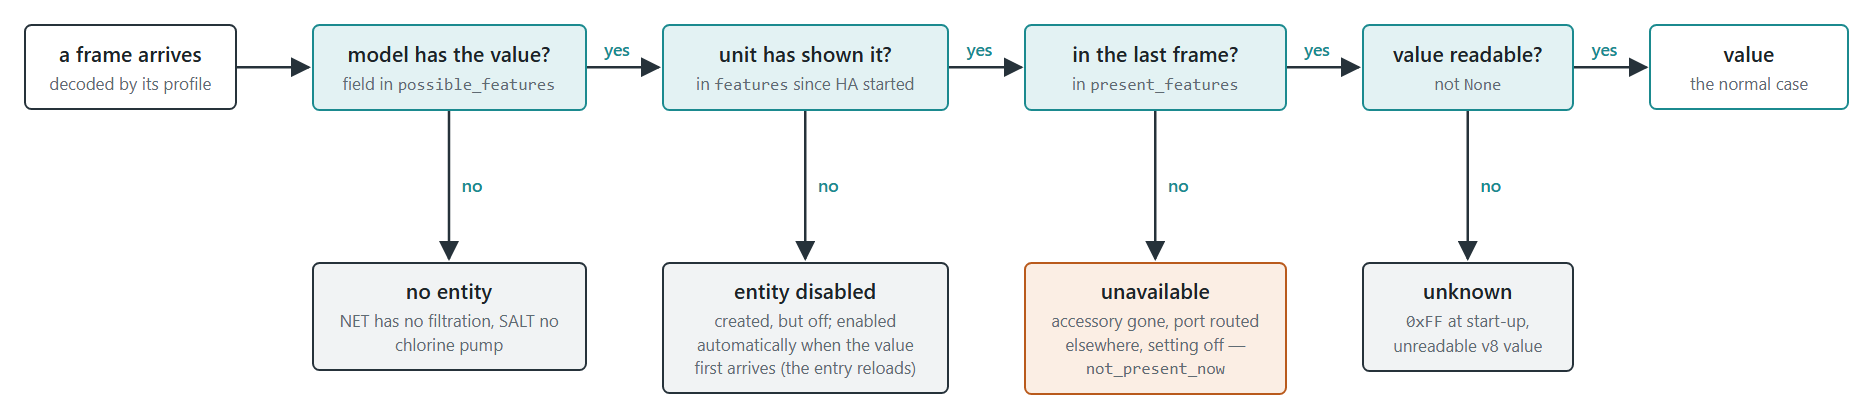
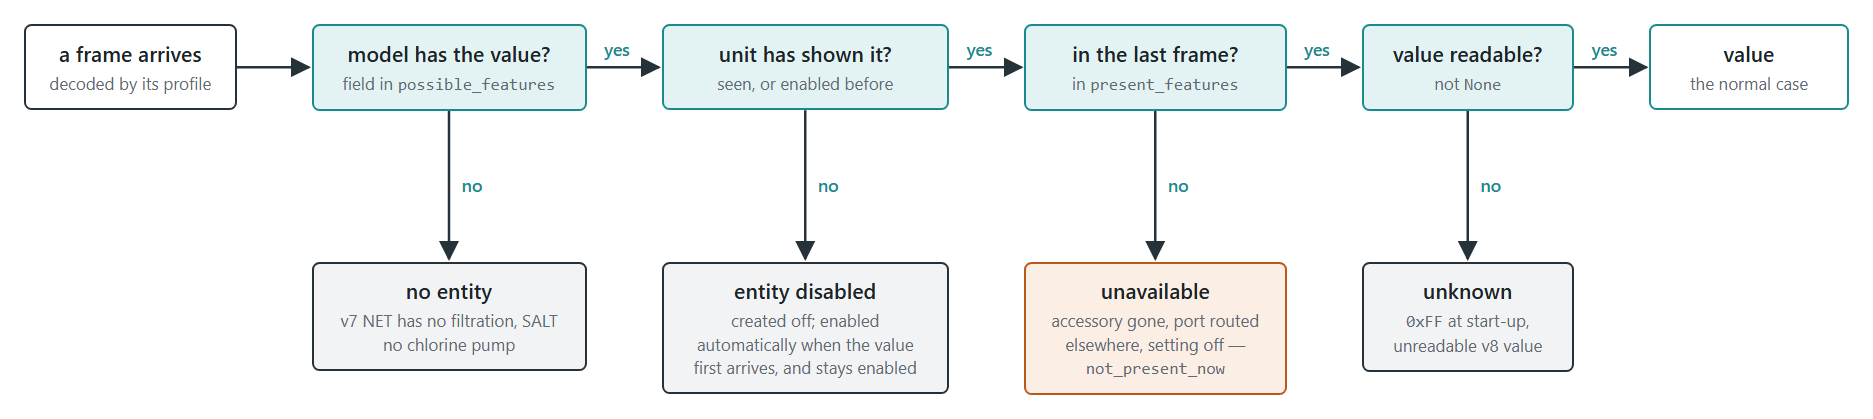
docs: audit section 6 -- accurate comments, sentinels per field, marks, v8 recipe, security note
- HOME pump bit and byte[103] comments follow the profile
- frame log and photo module intros describe recording, waiting and the zip
- architecture: what decoding takes from HA, sentinels decided per field,
  v8 -500 vs unreadable, short v8 frames, which frame ends a wait, timeout
  and cancellation of marks
- adding a model: every registration step for v8, test and diagram commands
- lifecycle diagram: v7 NET, entities stay enabled; troubleshooting and
  README: cancelled marks, security note on the TCP port and exports

diff --git a/docs/images/src/aseko-entity-lifecycle.html b/docs/images/src/aseko-entity-lifecycle.html
@@ -38,16 +38,16 @@
   </div>
   <div id="none" class="box end" style="left:250px; top:230px; width:220px;">
     <h3>no entity</h3>
-    <div class="muted">NET has no filtration, SALT no chlorine pump</div>
+    <div class="muted">v7 NET has no filtration, SALT no chlorine pump</div>
   </div>
 
   <div id="q2" class="box q" style="left:530px; top:40px; width:230px;">
     <h3>unit has shown it?</h3>
-    <div class="muted">in <code>features</code> since HA started</div>
+    <div class="muted">seen, or enabled before</div>
   </div>
   <div id="disabled" class="box end" style="left:530px; top:230px; width:230px;">
     <h3>entity disabled</h3>
-    <div class="muted">created, but off; enabled automatically when the value first arrives (the entry reloads)</div>
+    <div class="muted">created off; enabled automatically when the value first arrives, and stays enabled</div>
   </div>
 
   <div id="q3" class="box q" style="left:820px; top:40px; width:210px;">

diff --git a/custom_components/aseko_local/recording/frame_log.py b/custom_components/aseko_local/recording/frame_log.py
@@ -1,11 +1,12 @@
 """A ring buffer of raw frames and user markers, capped in compressed bytes.
 
-Every frame the server receives (v7 binary, v8 text, partial) is appended as
-one JSON line with the Home Assistant receive time.  A marker written by the
-``mark_dump`` service goes into the same stream, so frames and the photos a
-user takes of the unit's display right after tapping the button line up by
-position, without anyone comparing clocks.  Photos stay outside, attached to
-the GitHub issue by hand.
+While recording is on (the test cases card turns it on), every frame the
+server receives (v7 binary, v8 text, partial, rejected) is appended as one
+JSON line with the Home Assistant receive time.  A marker from ``mark_dump``
+or the card goes into the same stream once the next decoded frame arrives,
+so a change on the unit and the frames that carry it line up by position,
+without anyone comparing clocks.  A display photo is kept by ``photos`` and
+named in its marker; the zip export packs both.
 
 The ceiling is hard: the sealed compressed chunks, plus the compressed bytes
 of the chunk being written, plus the records not yet handed to its

diff --git a/custom_components/aseko_local/decoding/features/algaecide_pump_running.py b/custom_components/aseko_local/decoding/features/algaecide_pump_running.py
@@ -1,8 +1,10 @@
 """Whether the algicide dosing pump is running.
 
 v7: byte[29] bit 0x20 on SALT (confirmed: 27 algicide frames read 0x28 =
-0x08 | 0x20, PR #87) and HOME (uncertain), bit 0x10 on OXY (confirmed:
-2026-04-11 Winnetoux log, 0x08 -> 0x18 with the pump on).
+0x08 | 0x20, PR #87), bit 0x10 on OXY (confirmed: 2026-04-11 Winnetoux log,
+0x08 -> 0x18 with the pump on).  HOME has the same four independent pump
+ports as OXY and reads 0x10 too (``decode_v7_oxy``, assumed); its algicide
+flow rate is not located, so no HOME algicide state is reported yet.
 
 On SALT the same bit also means flocculant: one physical port, configured for
 either chemical.  Whether the port is set up for algicide at all is settled
@@ -24,8 +26,8 @@ if TYPE_CHECKING:
     from ..presence import NotPresent
 
 
-ALGICIDE_PUMP = 0x20  # SALT confirmed (PR #87), HOME uncertain
-ALGICIDE_PUMP_OXY = 0x10  # confirmed, 2026-04-11
+ALGICIDE_PUMP = 0x20  # SALT confirmed (PR #87)
+ALGICIDE_PUMP_OXY = 0x10  # OXY confirmed 2026-04-11; HOME assumed
 
 
 class AlgaecidePumpRunning(Feature):

diff --git a/custom_components/aseko_local/recording/photos.py b/custom_components/aseko_local/recording/photos.py
@@ -1,10 +1,11 @@
 """Photos of the unit's display that go with frame-log markers, and the zip export.
 
 The Aseko test cases card uploads a photo straight from the phone's camera.  The
-upload writes a marker into the frame log at the moment it arrives and keeps
-the photo here, named after that moment, so photo and frames line up without
-EXIF data, file names or anyone comparing clocks.  Messengers strip all of
-those; this path never leaves Home Assistant.
+photo is kept here at once, named after the upload time; its marker is written
+into the frame log after the next decoded frame and names the photo, so photo
+and frames line up without EXIF data, file names or anyone comparing clocks.
+Messengers strip all of those; this path never leaves Home Assistant.  A mark
+cancelled while it waited (recording stopped or deleted) removes its photo.
 
 Photos are downscaled (longest side ``MAX_SIDE`` px, JPEG) when Pillow can
 read them, and the folder is capped in bytes and count: the oldest photos go

diff --git a/custom_components/aseko_local/decoding/features/water_level.py b/custom_components/aseko_local/decoding/features/water_level.py
@@ -11,8 +11,10 @@ byte positions (domin211, DomSchCoding #100, Issue #110):
     byte[105] = high alarm threshold (cm)
 
 NET carries unrelated non-0xFF data in bytes 102-104, so no NET profile
-lists these.  byte[103] doubles as algaecide_flow_rate on OXY and HOME, whose
-independent-port layout reads it for both; SALT ignores it there.
+lists these.  OXY has no level probe and sends its algicide flow rate in
+byte[103] instead.  HOME uses bytes 102-105 for the level thresholds like
+SALT (confirmed there against the unit, 2026-09-11); where HOME sends its
+algicide flow rate is not known.
 """
 
 from __future__ import annotations

diff --git a/docs/decoding-by-device-profile.md b/docs/decoding-by-device-profile.md
@@ -14,7 +14,7 @@ The picture is generated from [`images/src/aseko-architecture.html`](images/src/
 | Package / module | Responsibility |
 |---|---|
 | `server.py` | One TCP server per host:port (`AsekoDeviceServer`). Aligns the stream into v7 (120 bytes) or v8 (`{v1 …}`) frames; a fragment is kept as a partial frame, bytes it cannot align are counted in diagnostics as `rejected` (and logged while recording). Optionally forwards every frame to Aseko Cloud (`forwarder.py`). |
-| `decoding/` | Bytes → `AsekoDevice`. Knows nothing about Home Assistant. |
+| `decoding/` | Bytes → `AsekoDevice`. No entities, no coordinator; from Home Assistant it uses only the time zone helpers, for the unit's clock and a missing timestamp. |
 | `coordinator.py` | Keeps the latest `AsekoDevice` per serial, merges feature sets, notifies platforms, owns the frame log and consumption store, waits for frames for `mark_dump`. |
 | `entity.py` + platforms | Entities for every value the model can have (see [Entity lifecycle](#entity-lifecycle)). |
 | `trackers/` | State the frame does not carry: backwash history, chemical consumption (exact ml, HA Store). |
@@ -139,8 +139,13 @@ everything the unit has shown since Home Assistant started.
   section stands; it and any missing `ins` / `ains` / `outs` / `areqs` section
   become `frame_problems`, which the server logs and counts. `crc16` is read as
   hex but not checked — its algorithm is not known.
-- An unfilled `0xFF` / `0xFFFF` is never a number: a measurement reads None, a
-  setting or an absent input reads `NOT_PRESENT`.
+- An unfilled `0xFF` / `0xFFFF` (v8: `-500`) is never a number. What it means
+  is decided per field in its feature file: a measurement or a setpoint of a
+  fitted probe reads None (unknown); a setting never made or an input not
+  fitted reads `NOT_PRESENT`. In v8 only `-500` marks a probe as absent — an
+  unreadable or missing value reads None.
+- A v8 frame that ends inside the first 120 bytes the server reads stops at
+  its newline; what follows starts the next frame.
 
 ## Entity lifecycle
 
@@ -166,10 +171,14 @@ automations survive an accessory being added or removed.
   `v7`, `v8`, `partial`, `rejected`, plus `mark` markers. Compressed ring buffer
   capped at 256 kB (chunks of 16 kB compressed or 384 kB raw), at most 500
   markers, saved across restarts, exported in an executor snapshot.
-- **Markers** (only while recording): `aseko_local.mark_dump` and the test cases card write a marker
-  only after the next whole frame arrives (at most 60 s), optionally for one
-  serial number — a change made on the unit may not be sent until its menu is
-  closed.
+- **Markers** (only while recording): `aseko_local.mark_dump` and the test
+  cases card write a marker after the next frame the decoder accepts — whole,
+  parseable, from the chosen unit if a serial number is given (an unmapped
+  model counts). A change made on the unit may not be sent until its menu is
+  closed. After 60 s without such a frame the marker is written anyway and
+  reported as not waited for. Stopping or deleting the recording while a mark
+  waits cancels it; a card photo of a cancelled mark is removed. With a serial
+  number, only the entries that have received that unit wait.
 - **Photos** (`recording/photos.py`): downscaled to 2048 px, at most 200 photos
   or 100 MB, written atomically under a lock.
 - **Views** (`recording/views.py`, admin only): `status` (frame ages, cases,

diff --git a/docs/troubleshooting.md b/docs/troubleshooting.md
@@ -34,7 +34,7 @@ happens next.
 
 | State | Meaning | Where to confirm |
 |---|---|---|
-| **disabled** (by the integration) | the model can have the value, but this unit has not sent it since Home Assistant started; it switches itself on when it does | `devices[].device.possible_features` has it, `features` does not |
+| **disabled** (by the integration) | the model can have the value, but this unit has never sent it; it switches itself on when it does and stays enabled after a restart | `devices[].device.possible_features` has it, `features` does not |
 | **unavailable** | the last frame did not carry it: the accessory is not fitted (any more), the shared pump port is routed to the other chemical, or the setting is off | `devices[].device.not_present_now` |
 | **unknown** | the unit has it, but the last frame could not say (e.g. `0xFF` "not filled in" at start-up, an unreadable v8 value) | `devices[].device.frame_problems` for v8 |
 | no entity at all | the model does not have the value | the [support matrix](support_matrix.md) shows — |
@@ -83,7 +83,8 @@ An entity you disabled yourself stays disabled.
 | Which frames go with case N? | `python scripts/frame_log_tool.py DIAGNOSTICS.json --around N` |
 | All frames as JSON lines | `python scripts/frame_log_tool.py DIAGNOSTICS.json --jsonl frames.jsonl` |
 | Case says *frames aged out* | the log no longer holds frames from that time |
-| Case marked with an error | no whole frame came within 60 s; the case was written without one |
+| Case marked with an error | no accepted frame came within 60 s; the case was written without one |
+| *Recording was stopped or deleted while waiting* | recording was turned off or deleted (maybe on another device) while the case waited; the case and its photo were not kept |
 
 In the zip from **Download new / all**, every file carries the entry's title
 and id (`frames-<title>-<entry_id>.jsonl`, `diagnostics-…`), so several

diff --git a/docs/adding-a-model.md b/docs/adding-a-model.md
@@ -30,9 +30,11 @@ analysis, using the common section layout.
   unit type byte in `_MODEL_BY_UNIT_TYPE` (`decoding/profile.py`), create
   `decoding/profiles/v7/<model>.py` and register it in `profiles/v7/__init__.py`
   (`BY_MODEL`) and `profiles/__init__.py` (`ALL_PROFILES`).
-- New v8 product line: extend `model_from_header_type` in
-  `profiles/v8/__init__.py` and add `profiles/v8/<model>.py`. A new firmware of
-  a known line needs nothing — it reads with the line's profile.
+- New v8 product line: add the enum value to `AsekoDeviceType` if the model
+  is new, extend `model_from_header_type` in `profiles/v8/__init__.py`, create
+  `profiles/v8/<model>.py` and register it in `profiles/v8/__init__.py`
+  (`BY_MODEL`) and `profiles/__init__.py` (`ALL_PROFILES`). A new firmware of a
+  known line needs nothing — it reads with the line's profile.
 
 A profile module is one `Profile(...)`:
 
@@ -74,5 +76,20 @@ python scripts/generate_support_matrix.py
 
 - Add the captured frame to `tests/test_decode_v7.py` (or `test_decode_v8.py`)
   with the values the unit showed.
+
+Running the tests:
+
+```bash
+# Linux (CI runs this): the full suite, Home Assistant fixtures included
+python -m pytest --timeout=10 tests
+```
+
+```bash
+# Windows: the Home Assistant pytest plugin does not load, so run the suites without it
+python -m pytest -q -p no:homeassistant -p no:pytest_homeassistant_custom_component --noconftest --no-cov tests/test_decode_v7.py tests/test_decode_v8.py tests/test_decoding_profiles.py tests/test_support_matrix.py tests/test_frame_log.py tests/test_recording_views.py tests/test_server.py
+```
+
+The diagrams in `docs/images/` are rendered from `docs/images/src/*.html`; the
+command is in the comment at the top of each file.
 - `tests/test_decoding_profiles.py` checks detection and profile consistency;
   `tests/test_support_matrix.py` checks the generated matrix is committed.

diff --git a/README.md b/README.md
@@ -72,7 +72,7 @@ Then, standing at the unit with your phone:
 
 | Button | What it does |
 |---|---|
-| **Recording on / off** | starts or stops the frame log; the recorded frames stay either way |
+| **Recording on / off** | starts or stops the frame log; the recorded frames stay either way. Stopping cancels a case still waiting for its frame |
 | **Photo + mark** / **Mark** | writes a case after the next frame, with or without a photo of the display |
 | **Download new** | a zip with the cases not downloaded yet; they count as downloaded once your browser has the whole zip |
 | **Download all** | every case again |
@@ -82,6 +82,8 @@ Then, standing at the unit with your phone:
 The card follows the Home Assistant language (English, Slovak, Czech, German, French; `language: en` overrides it). Photos are downscaled to 2048 px and kept in `<config>/aseko_local/photos`, at most 200 photos or 100 MB (the oldest go first). The card and its endpoints are for admin users, like the diagnostics download.
 
 > The frames and the unit's display carry its serial number; check the photos before you attach them to a public issue.
+
+> **Security:** the unit sends its data unencrypted to the port the integration listens on. Keep that port inside your trusted network — do not forward it from the internet. The diagnostics download and the zip export contain the unit's serial number.
 
 **Limits — what is kept and for how long**
 
